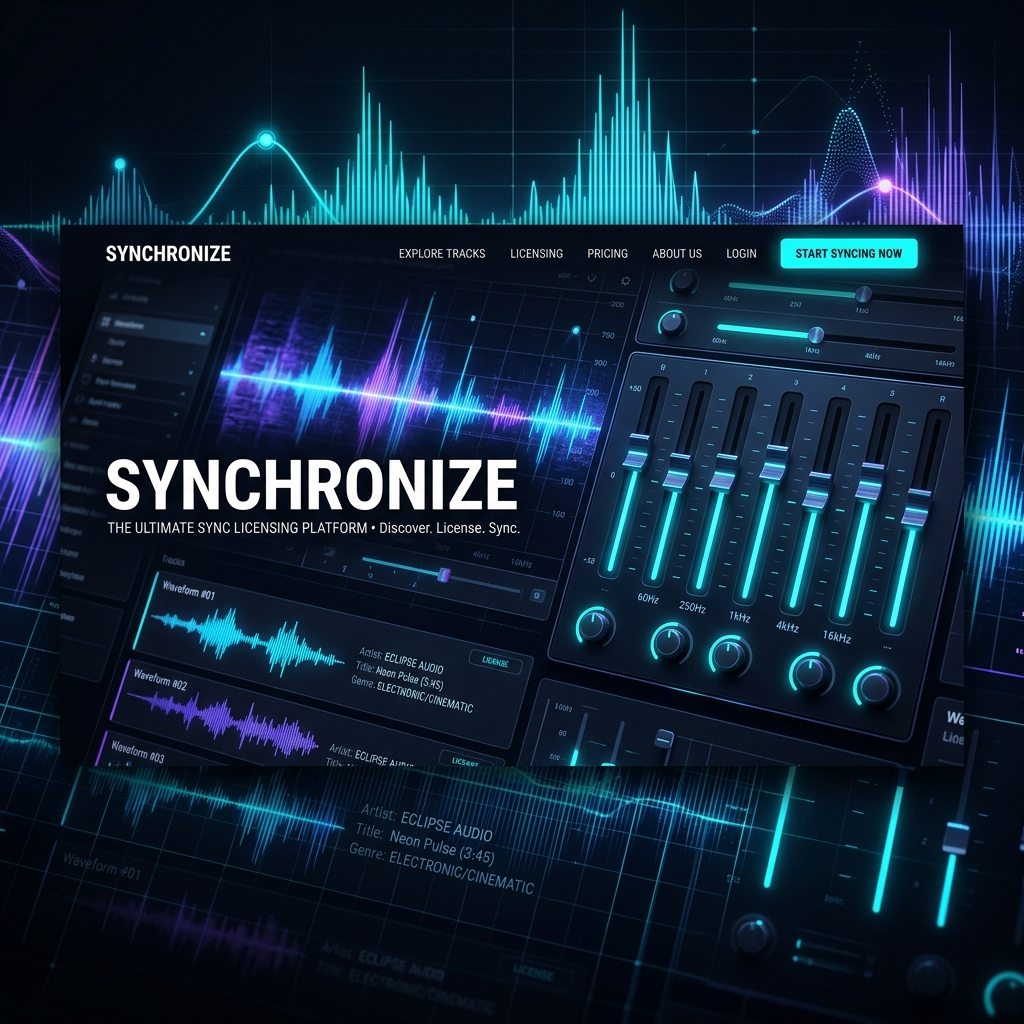
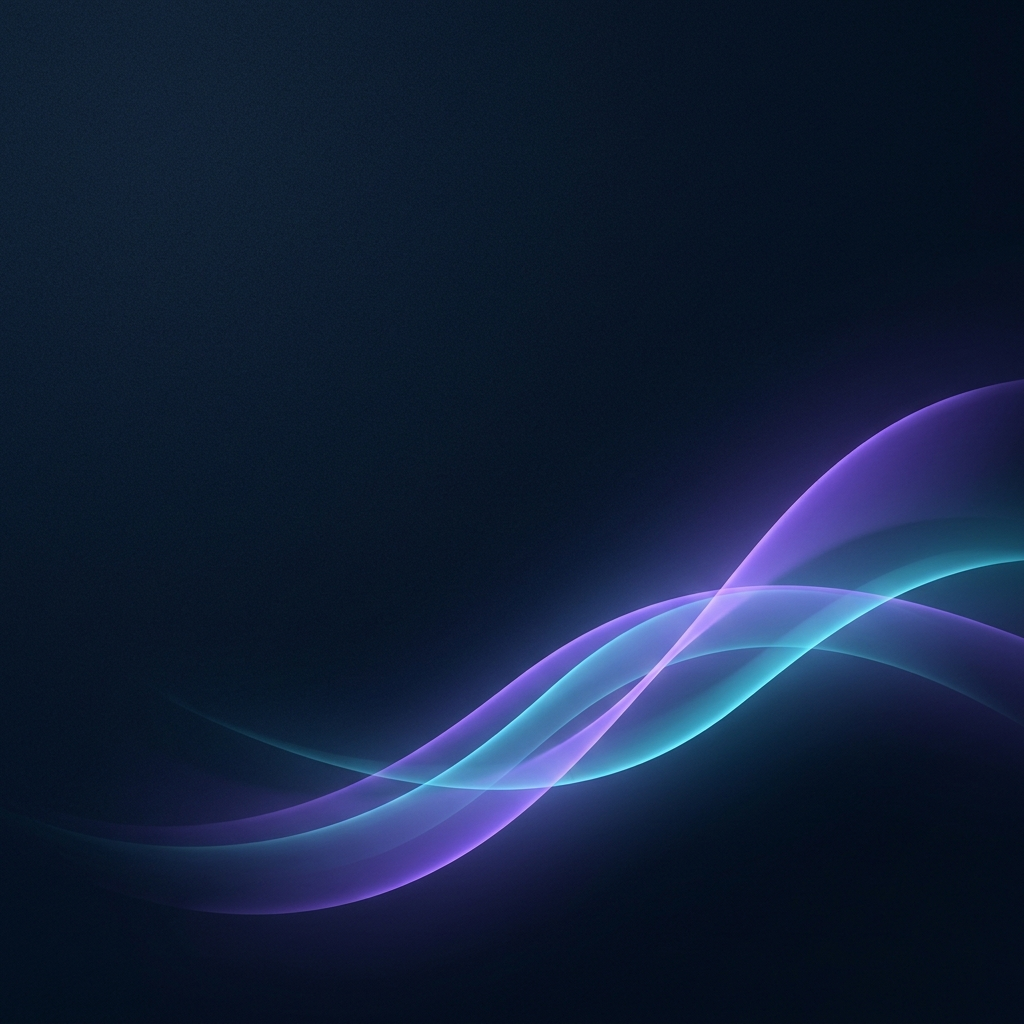
style: reduce navbar links spacing to 24px and replace sync header with minimalistic text-free image

diff --git a/apps/portal/src/App.css b/apps/portal/src/App.css
@@ -50,7 +50,7 @@
 .nav-links {
   display: flex;
   align-items: center;
-  gap: 40px;
+  gap: 24px;
   list-style: none;
 }
 